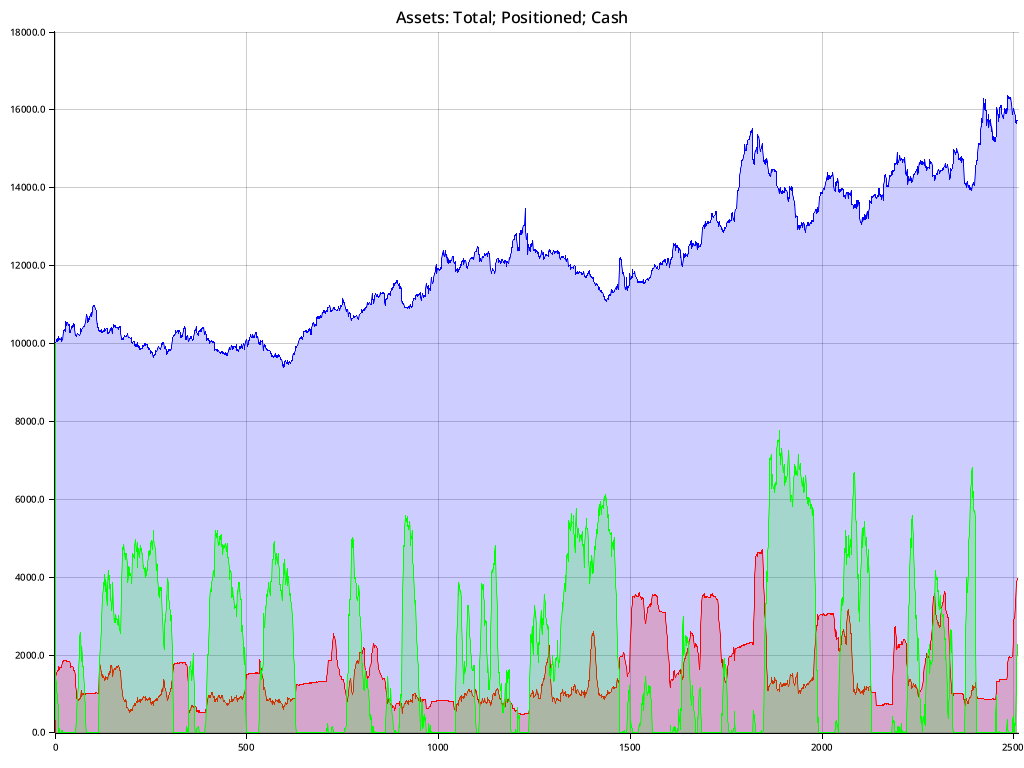
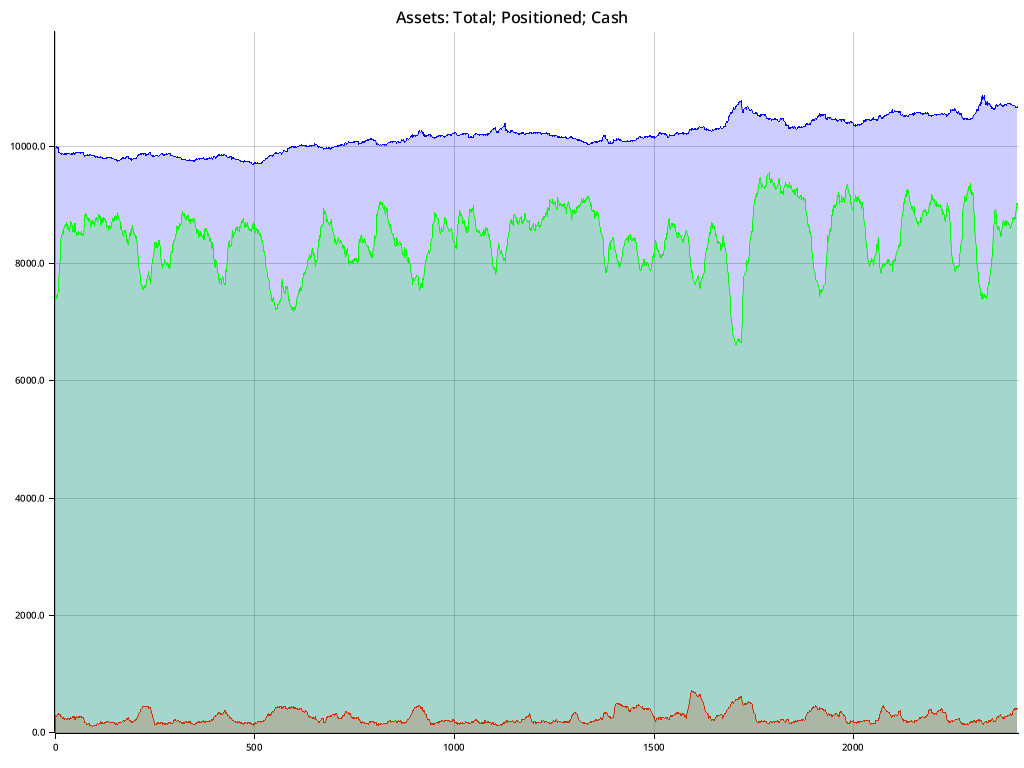
start of async

diff --git a/src/strategies/baisc_nn.rs b/src/strategies/baisc_nn.rs
@@ -2,7 +2,7 @@ use hashbrown::HashMap;
 use rust_neural_network::neural_network::{Input, NeuralNetwork};
 
 use crate::{
-    charts::general::{assets_chart, buy_sell_chart, simple_chart},
+    charts::general::{assets_chart, buy_sell_chart, simple_chart, want_chart},
     constants::{self, files::TRAINING_PATH, TICKERS},
     neural_net::create::Indicators,
     types::{Account, Data, MakeCharts, MappedHistorical, Position},
@@ -42,9 +42,15 @@ pub fn baisc_nn(
         sell_indexes.insert(ticker.to_string(), HashMap::new());
     }
 
+    let mut want_indexes = HashMap::new();
+
+    for (ticker, _) in mapped_data.iter() {
+        want_indexes.insert(ticker.to_string(), HashMap::new());
+    }
+
     account.cash = 10_000.;
 
-    for index in 0..indexes {
+    for index in 100..indexes {
         // Get and record some important data
 
         let mut total_positioned = 0.0;
@@ -101,11 +107,17 @@ pub fn baisc_nn(
             // println!("inputs: {values:?}");
 
             if output_index as u32 == constants::neural_net::CHANGE_INDEX {
-                let gross_want = assets * percent / 100.;
+                // Get the want from the determined percent, at a maximum of 10%
+                let gross_want = assets * (percent / 1000.).min(0.2);
                 let current = match position.quantity {
                     0. => 0.,
                     _ => position.value_with_price(price),
                 };
+
+                want_indexes
+                    .get_mut(ticker)
+                    .unwrap()
+                    .insert(index, gross_want);
 
                 // If we want more than we have, try to buy
                 if gross_want > current {
@@ -113,6 +125,7 @@ pub fn baisc_nn(
                     if buy == 0. {
                         continue;
                     }
+                    
                     let quantity = buy / price;
 
                     position.add(price, quantity);
@@ -122,7 +135,6 @@ pub fn baisc_nn(
                         .get_mut(ticker)
                         .unwrap()
                         .insert(index, (price, quantity));
-
                     continue;
                 }
 
@@ -132,7 +144,7 @@ pub fn baisc_nn(
                 if sell == 0. {
                     continue;
                 }
-                
+
                 let quantity = sell / price;
 
                 position.quantity -= quantity;
@@ -152,7 +164,7 @@ pub fn baisc_nn(
         let base_dir = format!("training/gens/{}", charts_config.generation);
         create_folder_if_not_exists(&base_dir);
 
-        assets_chart(&base_dir, &total_assets, &cash_graph, None);
+        let _ = assets_chart(&base_dir, &total_assets, &cash_graph, None);
 
         for (ticker, bars) in mapped_data.iter() {
             let ticker_dir = format!("{TRAINING_PATH}/gens/{}/{ticker}", charts_config.generation);
@@ -164,12 +176,10 @@ pub fn baisc_nn(
 
             let ticker_buy_indexes = buy_indexes.get(ticker).unwrap();
             let ticker_sell_indexes = sell_indexes.get(ticker).unwrap();
-            buy_sell_chart(
-                &ticker_dir,
-                &data,
-                &ticker_buy_indexes,
-                &ticker_sell_indexes,
-            );
+            let _ = buy_sell_chart(&ticker_dir, &data, ticker_buy_indexes, ticker_sell_indexes);
+
+            let ticker_want_indexes = want_indexes.get(ticker).unwrap();
+            let _ = want_chart(&ticker_dir, &data, ticker_want_indexes);
 
             /* let rsi_diff_values = rsi_values
                 .iter()
@@ -179,11 +189,11 @@ pub fn baisc_nn(
             simple_chart(&ticker_dir, "rsi_diff", &rsi_diff_values); */
 
             let positioned_assets = positions_by_ticker.get(ticker).unwrap();
-            assets_chart(
+            let _ = assets_chart(
                 &ticker_dir,
                 &total_assets,
                 &cash_graph,
-                Some(&positioned_assets),
+                Some(positioned_assets),
             );
         }
     }

diff --git a/src/neural_net/train.rs b/src/neural_net/train.rs
@@ -2,6 +2,7 @@ use std::collections::VecDeque;
 
 use hashbrown::HashSet;
 use ibapi::Client;
+
 use rust_neural_network::neural_network::{Input, InputName, NeuralNetwork, Output, OutputName};
 
 use crate::{
@@ -14,7 +15,7 @@ use crate::{
 
 use super::create::create_networks;
 
-pub fn train_networks(client: &Client) {
+pub async fn train_networks(client: &Client) {
 
     let mapped_historical = get_historical_data(client);
     let mapped_indicators = create_mapped_indicators(&mapped_historical);
@@ -68,18 +69,30 @@ pub fn train_networks(client: &Client) {
 
     for gen in 0..TARGET_GENERATIONS {
         let mut neural_net_ids = Vec::new();
+        let mut handles = Vec::new();
 
         for (_, neural_net) in neural_nets.iter_mut() {
-            let assets = baisc_nn(
-                &mapped_historical,
-                &mut Account::default(),
-                neural_net,
-                &mapped_indicators,
-                &mut inputs,
-                None,
-            );
-            println!("assets: {:.2}", assets);
-            neural_net_ids.push((neural_net.id, assets));
+            let handle = tokio::task::spawn(async {
+                let assets = baisc_nn(
+                    &mapped_historical,
+                    &mut Account::default(),
+                    neural_net,
+                    &mapped_indicators,
+                    &mut inputs,
+                    None,
+                );
+                println!("assets: {:.2}", assets);
+                // neural_net_ids.push((neural_net.id, assets));
+
+                (neural_net.id, assets)
+            });
+
+            handles.push(handle)
+        }
+
+        for handle in handles {
+            let (net_id, assets) = handle.await.unwrap();
+            neural_net_ids.push((net_id, assets));
         }
 
         neural_net_ids.sort_by(|a, b| b.1.partial_cmp(&a.1).unwrap());
@@ -121,7 +134,7 @@ pub fn train_networks(client: &Client) {
             net.mutate();
         }
 
-        neural_nets.insert(best_net_id, best_gen_net);
+        neural_nets.insert(best_gen_net.id, best_gen_net);
 
         println!("Completed generation: {gen} with networks: {}", neural_nets.len());
         println!("Highest this gen: {gen_best_assets:.2}");

diff --git a/src/charts/general.rs b/src/charts/general.rs
@@ -6,7 +6,7 @@ use plotters::{
     data,
     prelude::{BitMapBackend, CandleStick, Circle, EmptyElement, IntoDrawingArea, Text},
     series::{AreaSeries, LineSeries, PointSeries},
-    style::{Color, BLUE, GREEN, RED, WHITE, YELLOW},
+    style::{full_palette::PURPLE, Color, BLUE, GREEN, RED, WHITE, YELLOW},
 };
 use time::OffsetDateTime;
 
@@ -308,6 +308,65 @@ pub fn assets_chart(
             GREEN.mix(0.2),
         )
         .border_style(GREEN),
+    )?;
+
+    root.present()
+        .expect("unable to write chart to file, perhaps there is no directory");
+
+    Ok(())
+}
+
+pub fn want_chart(
+    dir: &String,
+    data: &Data,
+    want_indexes: &HashMap<usize, f64>,
+) -> Result<(), Box<dyn std::error::Error>> {
+    let path = format!("{dir}/want.png");
+    let root = BitMapBackend::new(path.as_str(), (1024, 768)).into_drawing_area();
+    root.fill(&WHITE)?;
+
+    let mut wants = Vec::new();
+
+    for i in 0..data.len() {
+        if let Some(want) = want_indexes.get(&i) {
+            wants.push(*want);
+            continue;
+        }
+
+        wants.push(0.0);
+    }
+
+    let y_min = wants
+        .iter()
+        .min_by(|a, b| a.partial_cmp(b).unwrap())
+        .unwrap()
+        * 0.9;
+    let y_max = wants
+        .iter()
+        .max_by(|a, b| a.partial_cmp(b).unwrap())
+        .unwrap()
+        * 1.1;
+
+    let mut chart = plotters::chart::ChartBuilder::on(&root)
+        .caption("Buy Sell Chart", ("sans-serif", 20))
+        .margin(5)
+        .x_label_area_size(30)
+        .y_label_area_size(30)
+        .build_cartesian_2d(0..data.len() as u32, y_min..y_max)?;
+
+    chart.configure_mesh().light_line_style(WHITE).draw()?;
+
+    // Wants
+
+    chart.draw_series(
+        AreaSeries::new(
+            wants.iter()
+                .enumerate()
+                .map(|(index, value)| (index as u32, *value)),
+            0.0,
+            PURPLE.mix(0.2),
+        )
+        .border_style(PURPLE),
     )?;
 
     root.present()

diff --git a/src/neural_net/create.rs b/src/neural_net/create.rs
@@ -30,9 +30,11 @@ pub fn create_mapped_indicators(mapped_data: &MappedHistorical) -> HashMap<Strin
 
 fn create_indicators(data: Vec<f64>) -> Indicators {
     enum_map! {
+        Indicator::EMADiff7 => ema_diff_percent(&data, 1. / 7.),
         Indicator::EMADiff14 => ema_diff_percent(&data, 1. / 14.),
         Indicator::EMADiff50 => ema_diff_percent(&data, 1. / 50.),
         Indicator::EMADiff100 => ema_diff_percent(&data, 1. / 100.),
+        Indicator::RSI7 => get_rsi_percents(&data, 1. / 7.),
         Indicator::RSI14 => get_rsi_percents(&data, 1. / 14.),
         Indicator::RSI28 => get_rsi_percents(&data, 1. / 28.),
         Indicator::RSI50 => get_rsi_percents(&data, 1. / 50.),
@@ -75,9 +77,11 @@ pub type Indicators = EnumMap<Indicator, Vec<f64>>;
 
 #[derive(enum_map::Enum, Clone, Copy, )]
 pub enum Indicator {
+    EMADiff7,
     EMADiff14,
     EMADiff50,
     EMADiff100,
+    RSI7,
     RSI14,
     RSI28,
     RSI50,

diff --git a/src/constants.rs b/src/constants.rs
@@ -14,7 +14,7 @@ pub mod agent {
     pub const LEARNING_RATE: f64 = 0.003/* 0.003 */;
     /// How many agents we want in training at each training step
     pub const TARGET_AGENT_COUNT: u32 = 100;
-    pub const KEEP_AGENTS_PER_GENERATION: u32 = 30;
+    pub const KEEP_AGENTS_PER_GENERATION: u32 = 20;
     /// How many generations to run to train the agents
     pub const TARGET_GENERATIONS: u32 = 20;
     pub const MAX_WEIGHT: f64 = 1.0;

diff --git a/src/agent/train.rs b/src/agent/train.rs
@@ -73,7 +73,7 @@ pub fn train_agents(client: &Client) {
         }
 
         // Add the best agent without mutations
-        agents.insert(gen_best_agent_id, best_gen_agent);
+        agents.insert(best_gen_agent.id, best_gen_agent);
 
         //
 
